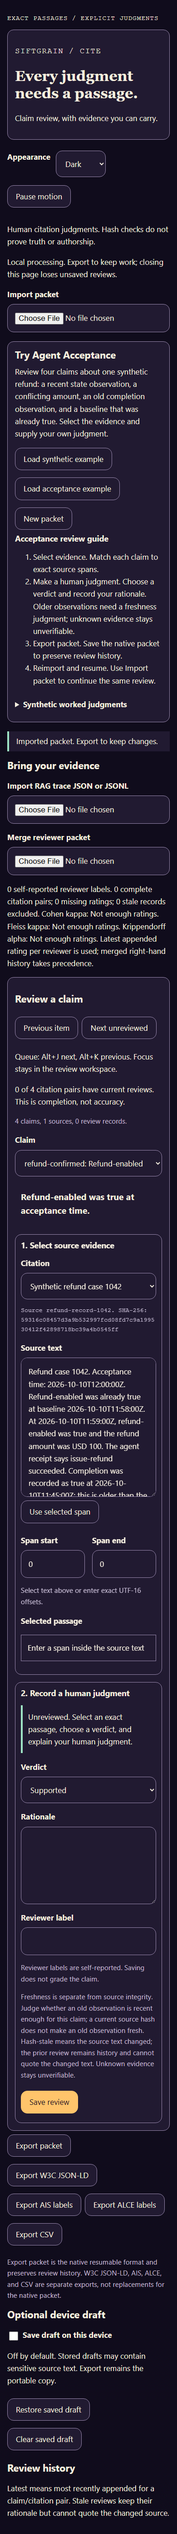
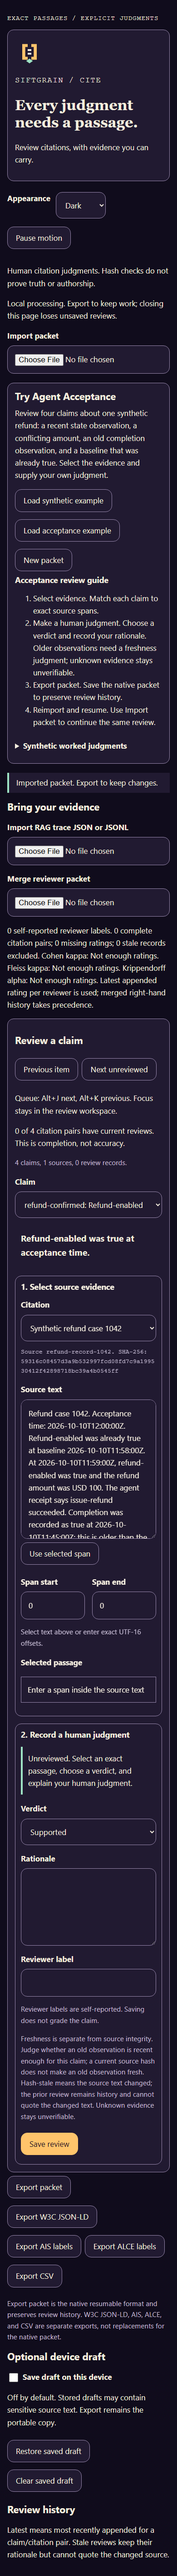
feat: show the Siftgrain Cite mark in the header

diff --git a/tests/browser/review.spec.ts b/tests/browser/review.spec.ts
@@ -7,6 +7,17 @@ import { createHash } from "node:crypto";
 const expected = JSON.parse(await readFile("examples/expected.json", "utf8"));
 const input = await readFile("examples/packet.json", "utf8");
 
+test("header shows the Siftgrain Cite mark and unchanged tagline", async ({ page }) => {
+  await page.goto("./");
+  const mark = page.locator("#brand-mark");
+  await expect(mark).toBeVisible();
+  await expect(mark).toHaveAttribute("role", "img");
+  await expect(mark).toHaveAttribute("aria-label", "Siftgrain Cite");
+  await expect(page.getByRole("heading", { level: 1 })).toHaveText(
+    "Every judgment needs a passage.",
+  );
+});
+
 test("one look keeps dark default, light persistence and pause controls", async ({ page }) => {
   await page.emulateMedia({ reducedMotion: "no-preference" });
   await page.goto("./");

diff --git a/src/shell.html b/src/shell.html
@@ -17,6 +17,12 @@
       <a class="skip" href="#review-form">Skip to review form</a>
       <p class="eyebrow">EXACT PASSAGES / EXPLICIT JUDGMENTS</p>
       <header class="hero">
+        <svg id="brand-mark" viewBox="0 0 96 96" role="img" aria-label="Siftgrain Cite">
+          <rect width="96" height="96" rx="18" fill="var(--surface)" />
+          <path d="M24 22h18v10H34v32h8v10H24zm48 0H54v10h8v32h-8v10h18z" fill="var(--accent)" />
+          <path d="M42 39h12v6H42zm0 12h12v6H42z" fill="var(--ink)" />
+          <path d="m37 78 11-8 11 8-11 8z" fill="var(--pass)" />
+        </svg>
         <p class="suite">SIFTGRAIN / CITE</p>
         <h1>Every judgment needs a passage.</h1>
         <p>Review citations, with evidence you can carry.</p>

diff --git a/src/style.css b/src/style.css
@@ -294,6 +294,11 @@ h1 {
   font-family: var(--font-mono);
   letter-spacing: 0.1em;
 }
+#brand-mark {
+  display: block;
+  width: 4rem;
+  height: 4rem;
+}
 nav {
   display: flex;
   flex-wrap: wrap;

diff --git a/README.md b/README.md
@@ -1,5 +1,7 @@
 # Siftgrain Cite
 
+![Siftgrain Cite mark](brand/logo.svg) ![Siftgrain Cite wordmark](brand/wordmark.svg)
+
 Offline browser tool for researchers and reviewers who check claims against exact source passages and export their reasoning.
 
 ![Siftgrain Cite with a synthetic acceptance packet](docs/screenshots/app.png)
